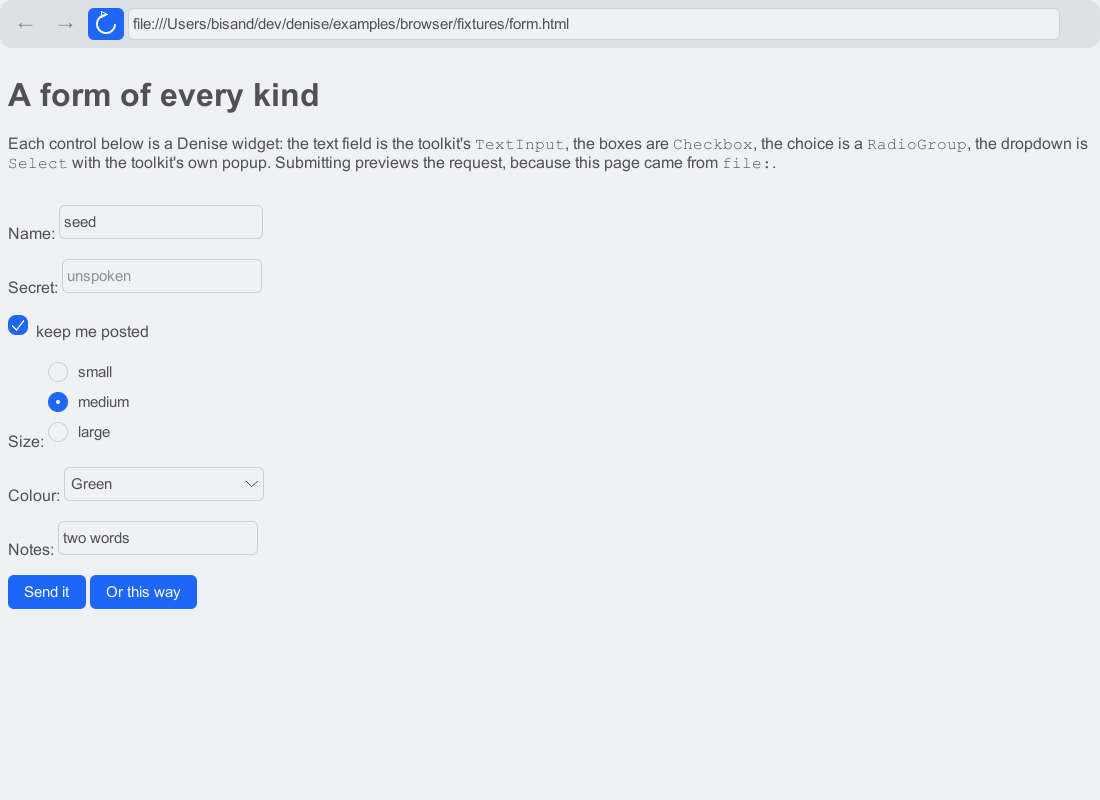
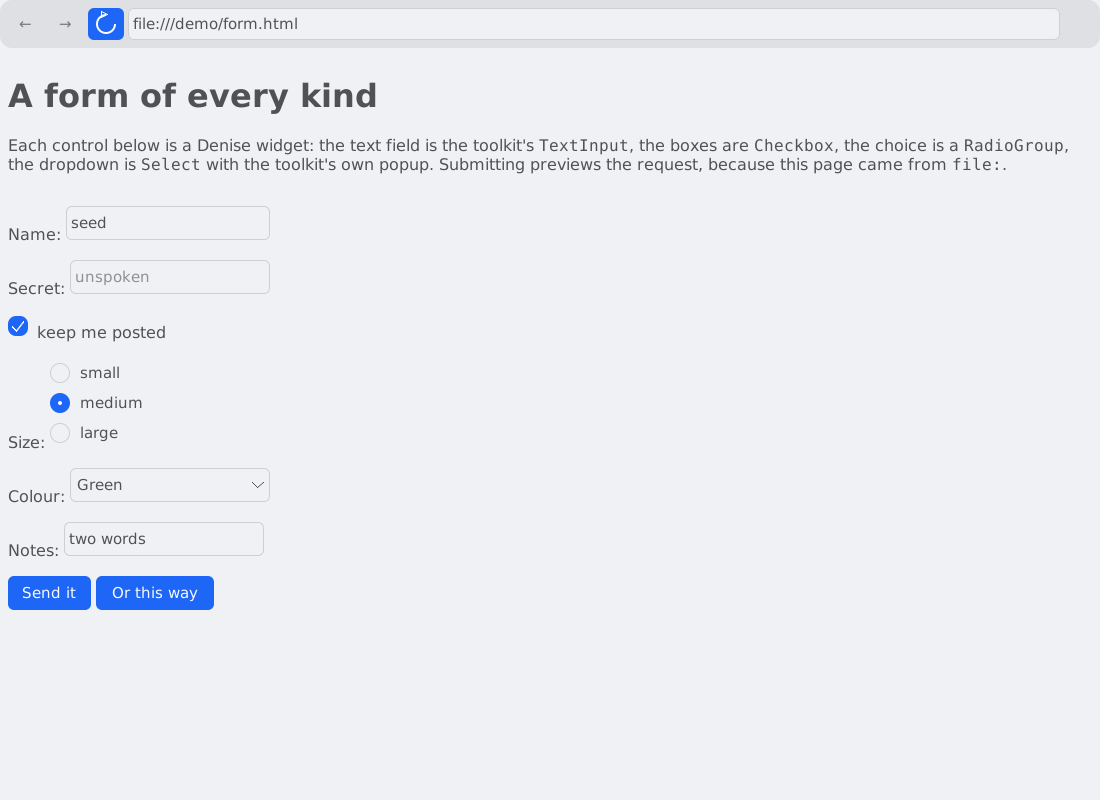
fix(assets): the browser screenshot named its author
`browser-form.png` was rendered from a working copy, so the URL bar shipped
`file:///Users/bisand/dev/denise/examples/browser/fixtures/form.html` — a
username and an operating system, in the README, for anyone deciding where
to start.

That is the URL bar doing its job. The fix is where it is rendered from, not
what it draws: `scripts/screenshot-browser.sh` copies the page to `/demo`
inside a container and renders it there, so the bar says
`file:///demo/form.html` and names nobody. Linux rather than the host for
the same reason and one more — the font comes out DejaVu, which is what
`dist/install.sh` puts on the Pi, so the picture is of the panel this is for
rather than of a Mac.

A script rather than a one-off, because the next person to regenerate it
would have leaked their own home directory instead, and would have had no
way to know.

Also `/home/bisand/promo.h264` in a launcher test, which is the same leak in
source rather than in a picture.

diff --git a/examples/launcher/src/main.rs b/examples/launcher/src/main.rs
@@ -817,10 +817,10 @@ mod app {
                 args: Vec::new(),
             }];
             let mut entry = parse_entry("Video-player=/usr/local/bin/denise-video-player").unwrap();
-            entry.args.push("/home/bisand/promo.h264".to_string());
+            entry.args.push("/media/promo.h264".to_string());
             merge(&mut demos, vec![entry]);
             assert_eq!(demos.len(), 1);
-            assert_eq!(demos[0].args, vec!["/home/bisand/promo.h264".to_string()]);
+            assert_eq!(demos[0].args, vec!["/media/promo.h264".to_string()]);
             assert_eq!(demos[0].label, "Video player", "the button keeps its name");
         }
 
